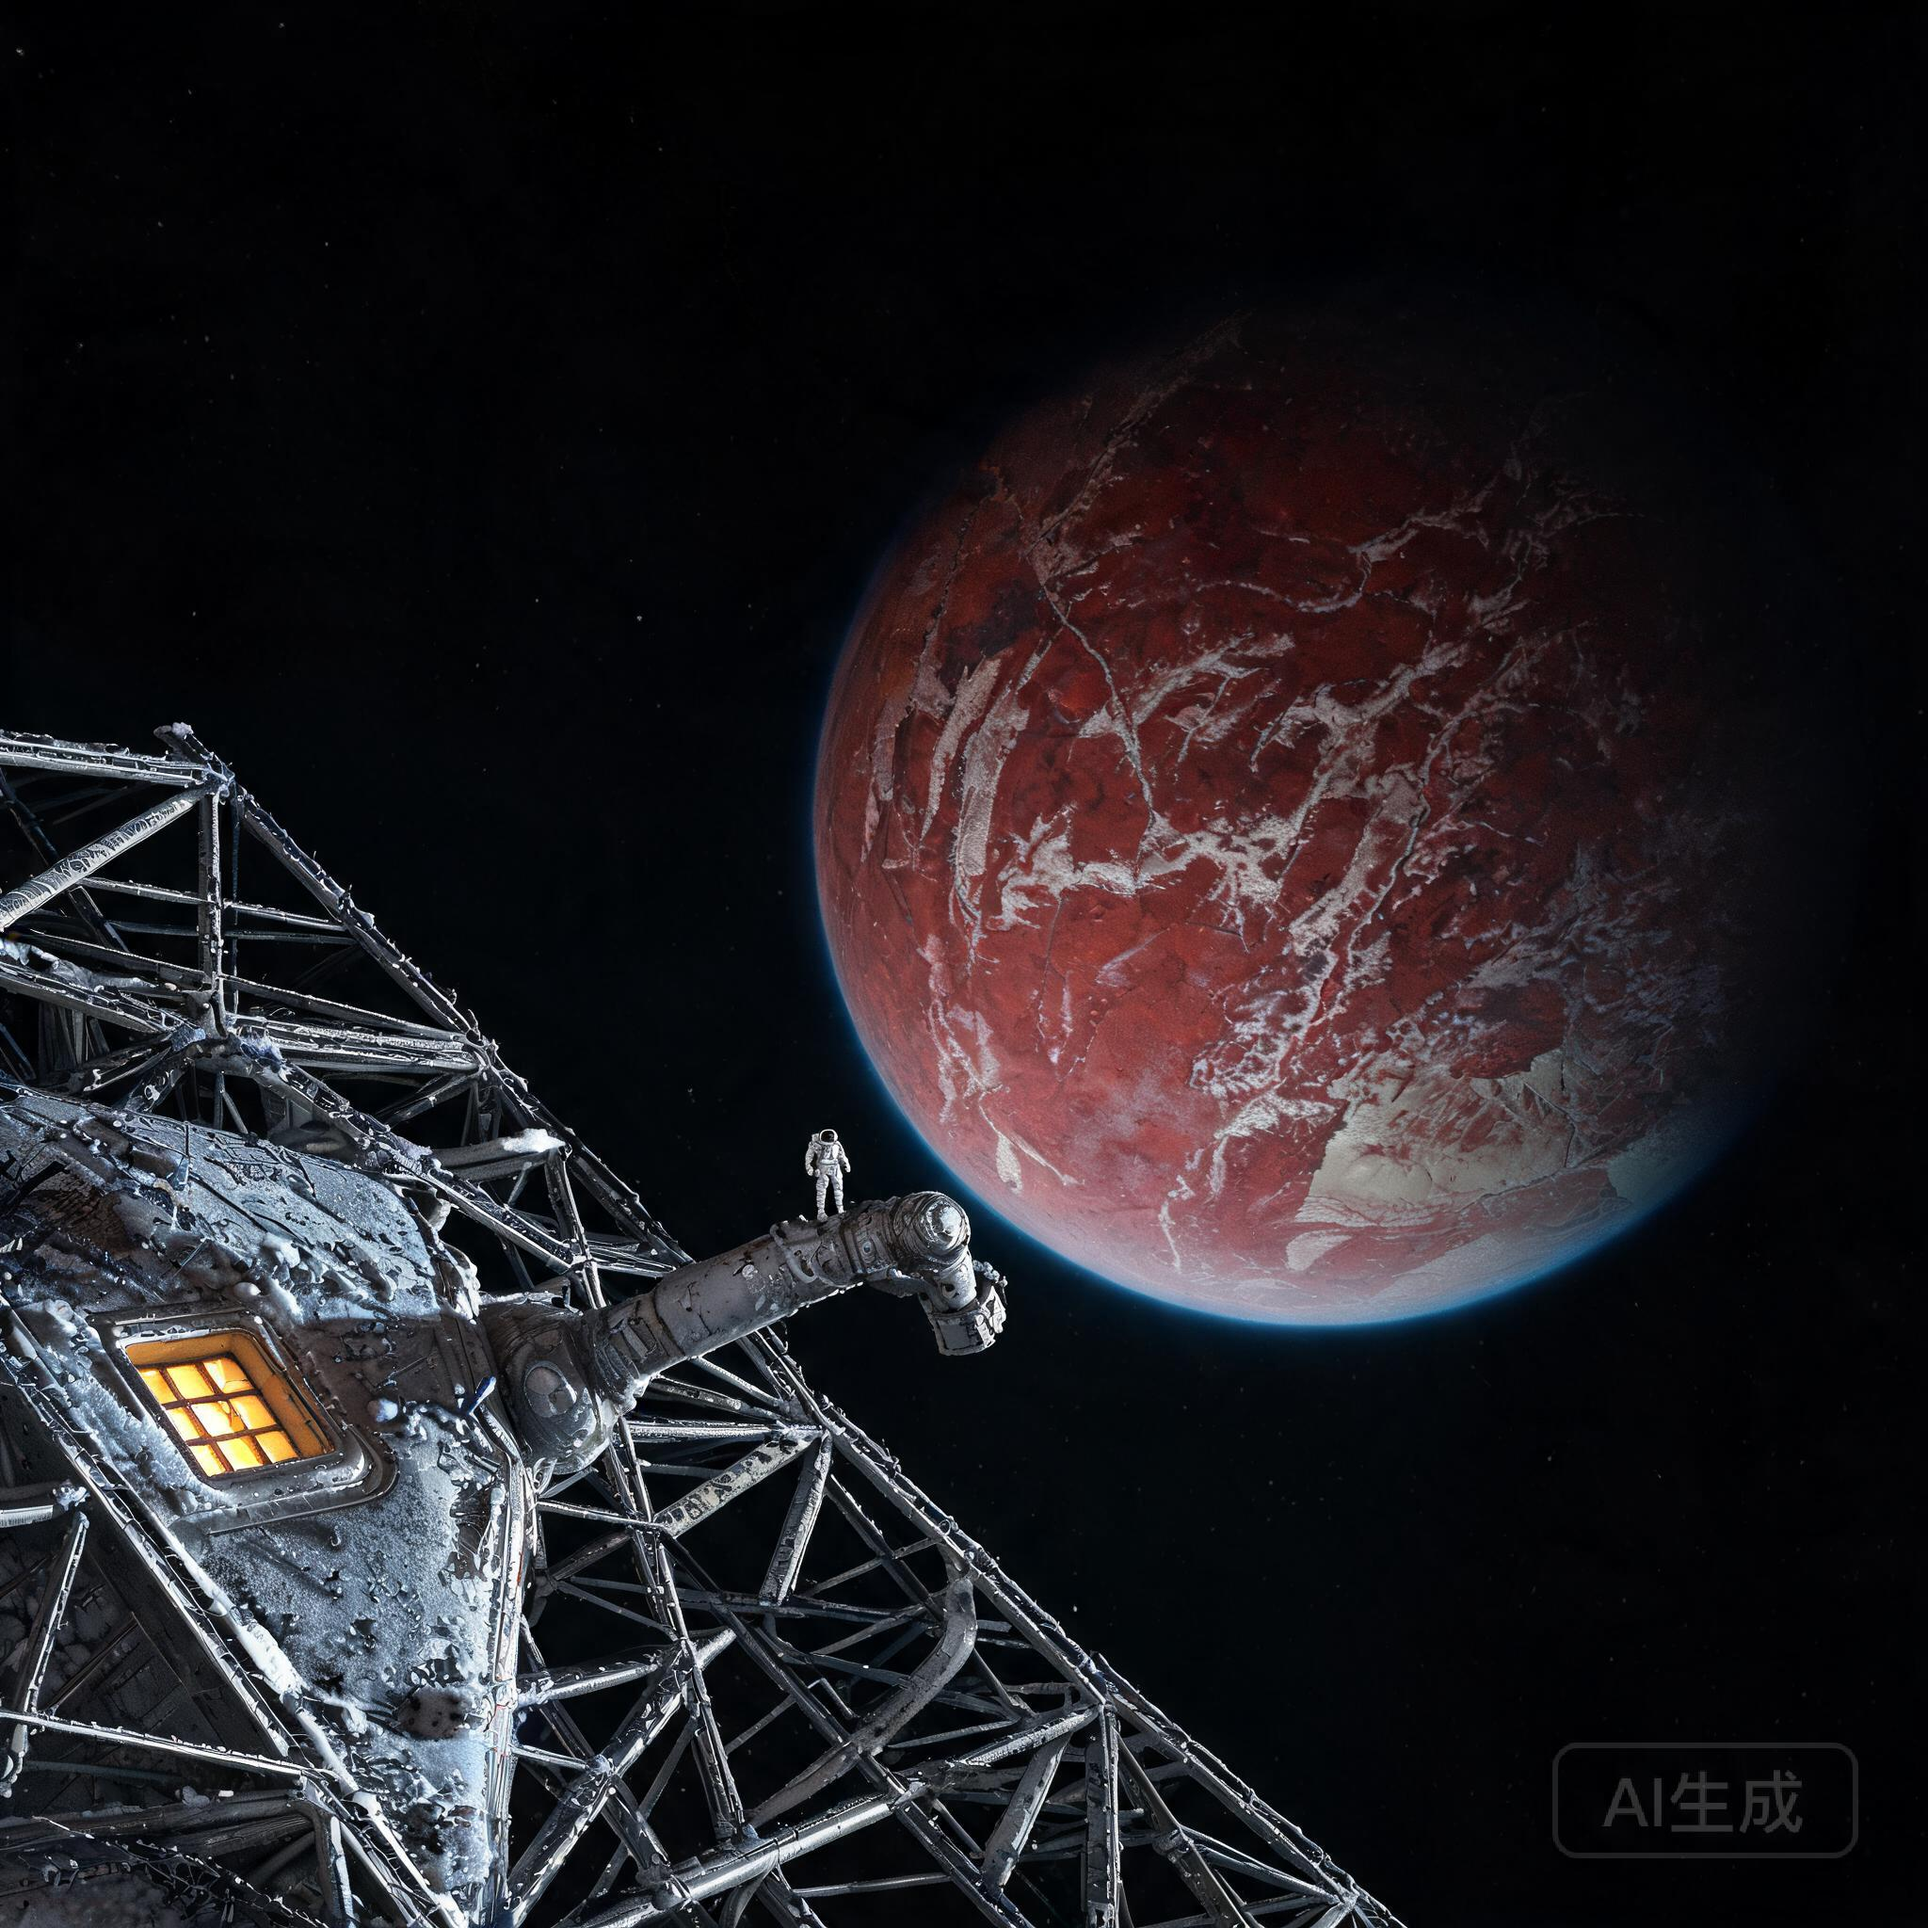
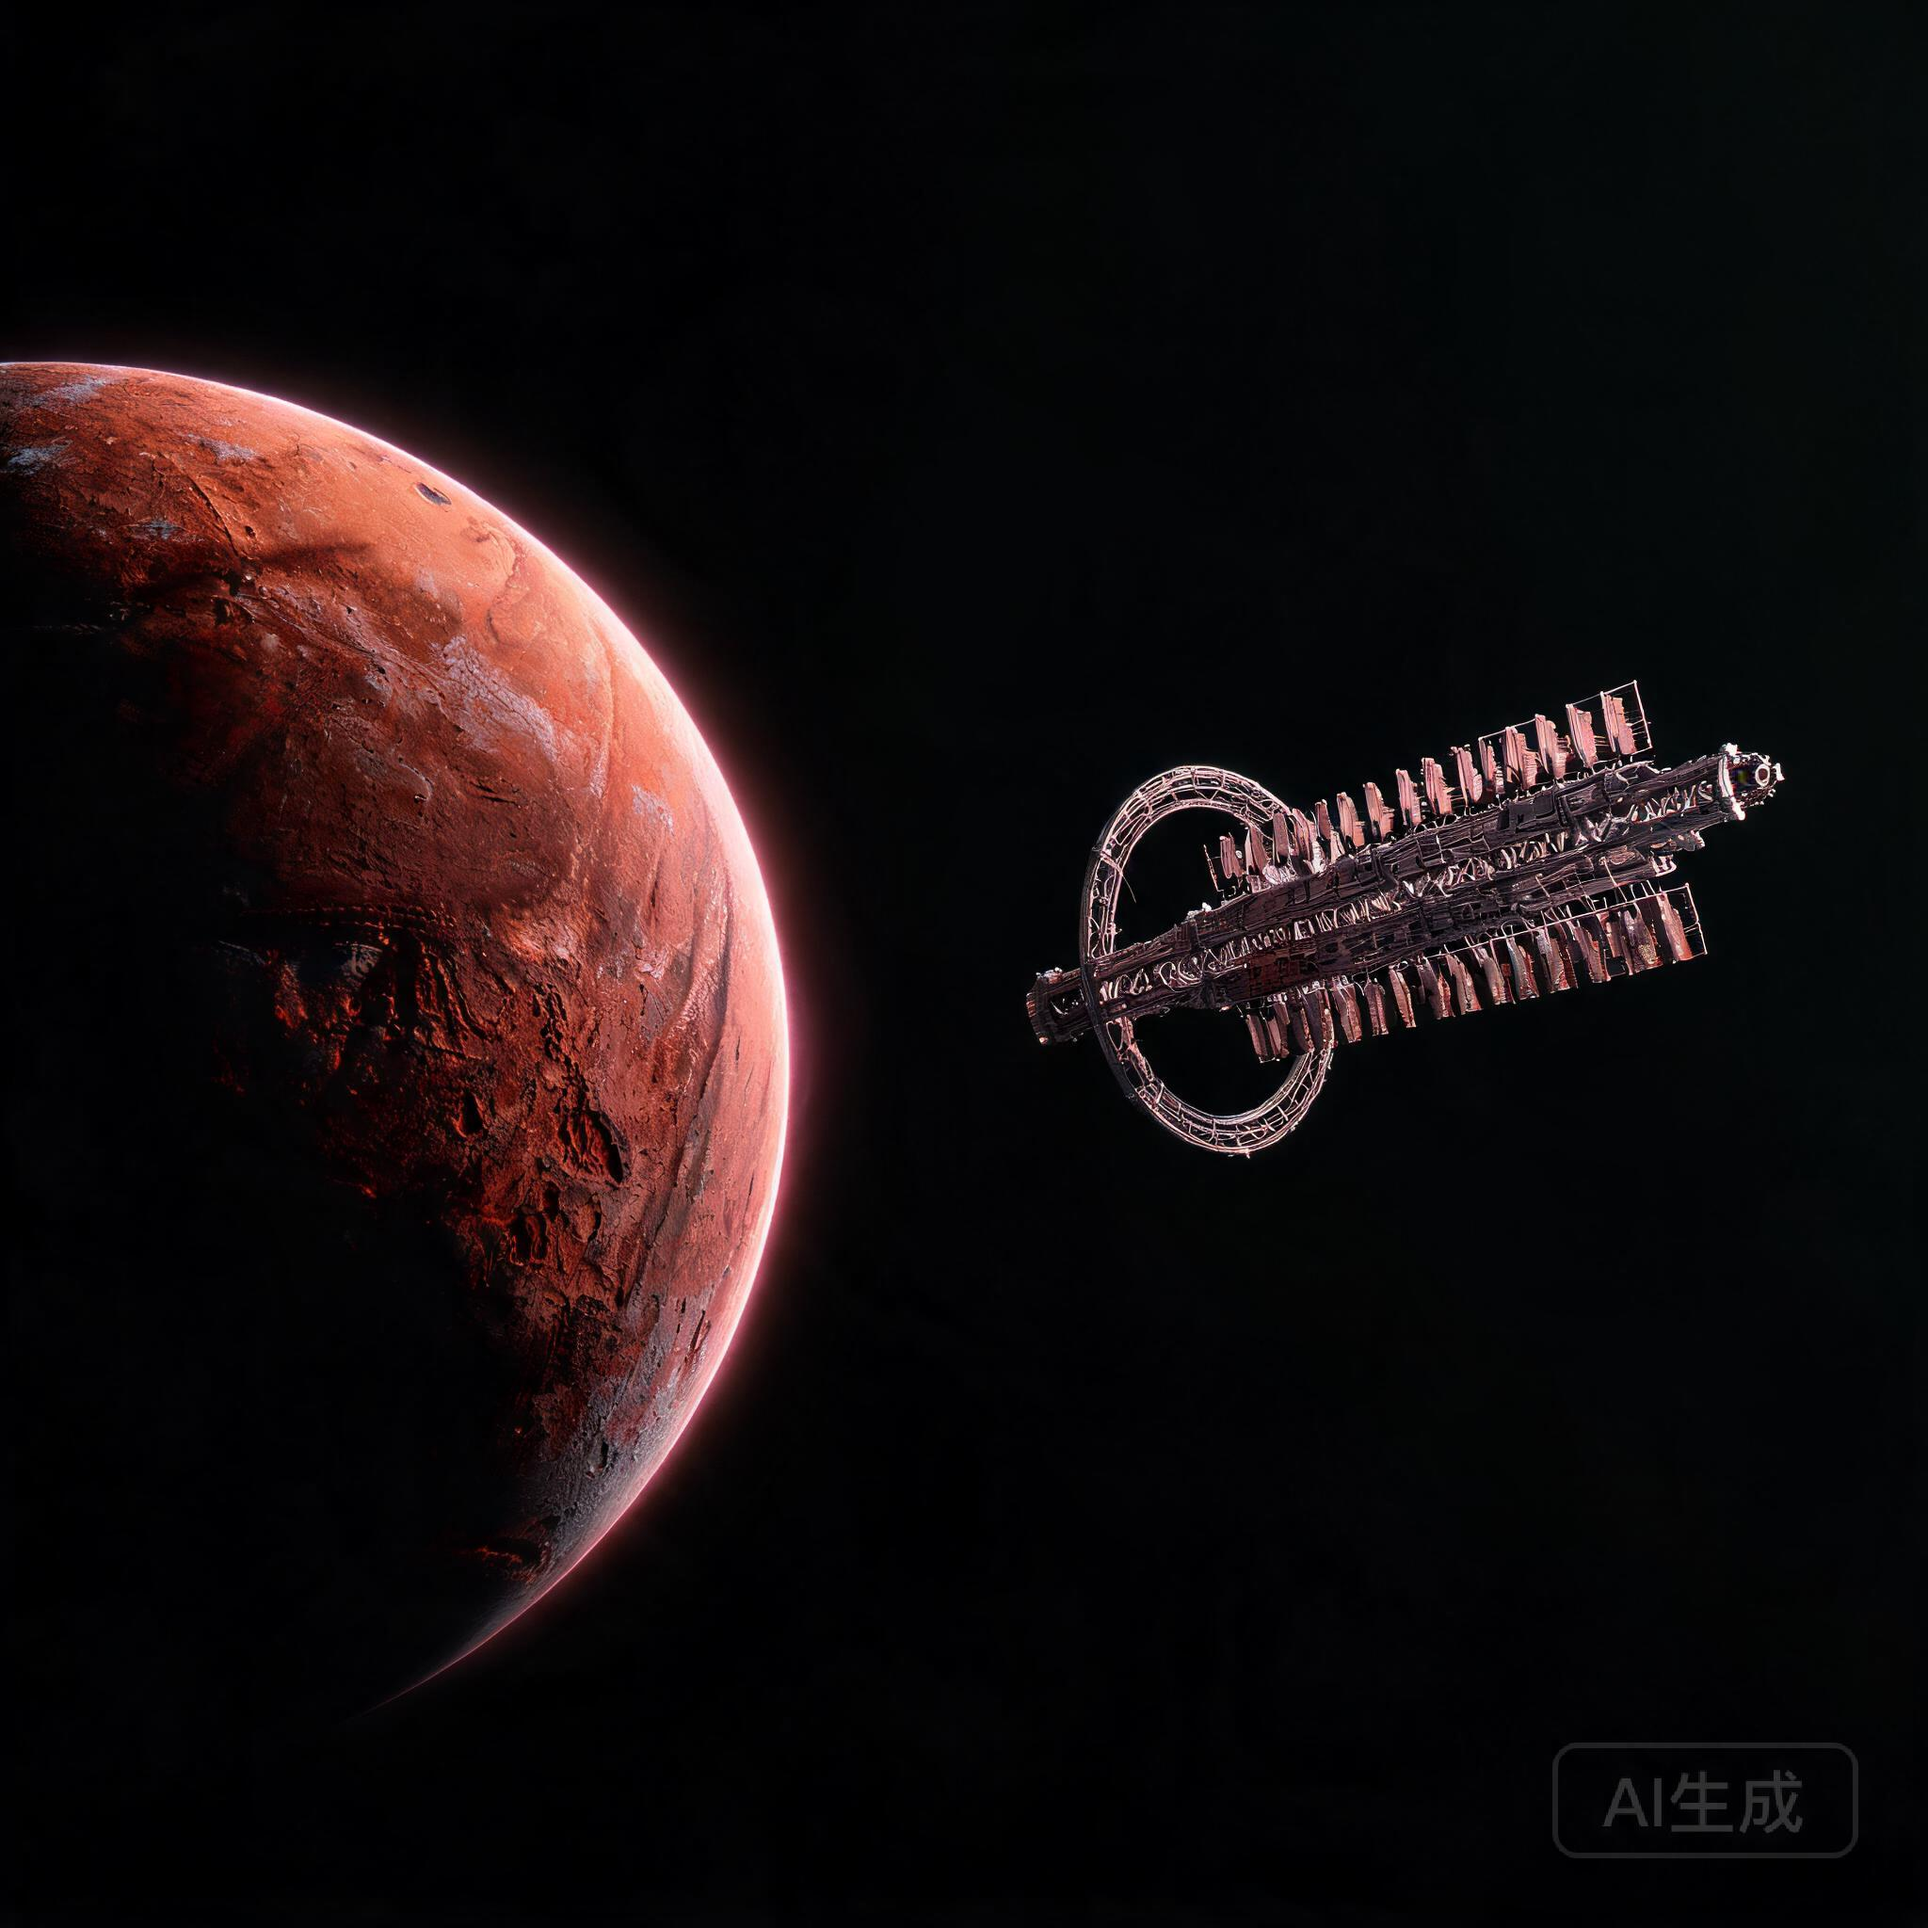
docs: 生图012定稿 — v2轨道静置图替换v1俯冲图,README记录配图/教训(plan仅lite可用,勿用俯冲构图)

diff --git a/docs/未来世界_生图/README.md b/docs/未来世界_生图/README.md
@@ -26,6 +26,14 @@ bash docs/gen_future_v2.sh   # 三张方法论版，4K，输出到本目录
 - 单图直链（jsDelivr）：
   `https://cdn.jsdelivr.net/gh/shawn1905/generation-ship@main/docs/未来世界_生图/009_世代飞船_200年环_方法论.jpeg`
 
+## 012 · 着陆报告（2026-08-15）
+
+- 配图：《ARK-01 抵达比邻星 b》——seedream-5-0-lite，2048×2048，v2「轨道静置」构图（v1 俯冲感已弃）
+- 配套正典：`docs/creation/writing/ARK-01抵达处置委员会第001号着陆报告.md`（落地纪元首篇实录）
+- 展示页：https://shawn1905.github.io/generation-ship/docs/landing_report.html
+- 提示词：`012_着陆报告/prompt_提示词.txt`（v1 弃稿）与 `prompt_v2_轨道静置.txt`（在用）
+- 教训：plan 内仅 seedream-lite 可用（pro/视频模型报「不支持 agent plan」）；「抵达」场景勿用俯冲构图，用轨道静置
+
 ## 生图配额备忘
 
 - Agent Plan 内 seedream 免费额度 **50 张/月**（08-13 23:59 重置），方法论版 3 张后余约 42 张
